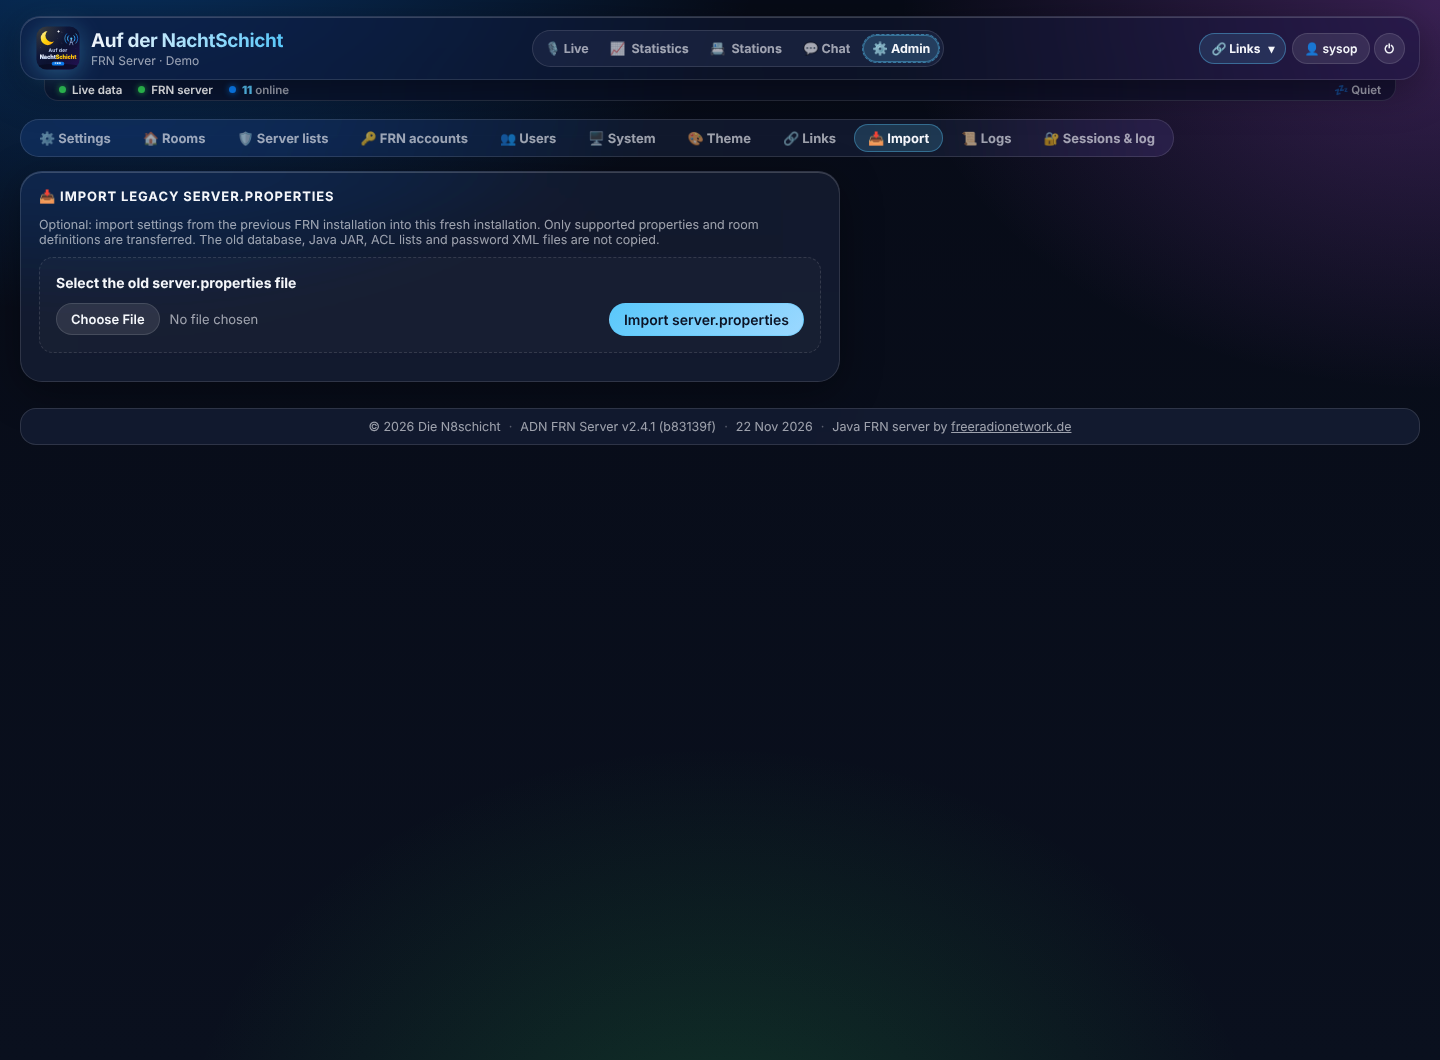
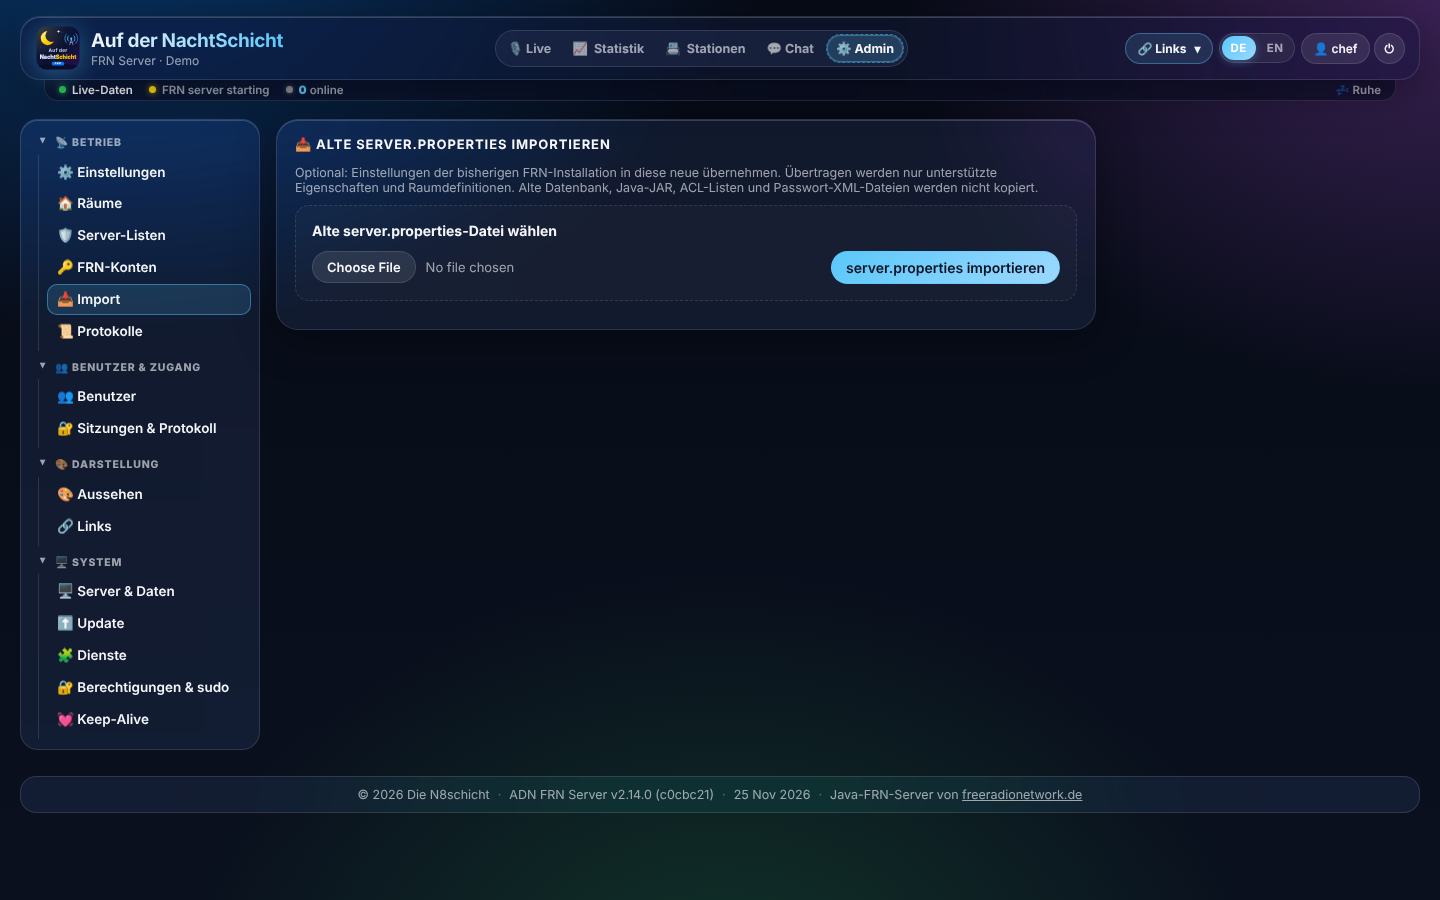
Release 2.14.0: Baum-Menü, einheitlicher Bereich System, Keep-Alive
Ausführlich in CHANGELOG.md. Doku (Admin-Portal, Updates, Betrieb & Fehlersuche, readme) und Screenshots aktualisiert.

Claude-Session: https://claude.ai/code/session_01J5RG2nh5KG4yZP2DtuvZ9u

diff --git a/frnadn/__init__.py b/frnadn/__init__.py
@@ -1,2 +1,2 @@
 """frn_adn – dashboard and admin area for the FRN server, design: Auf der NachtSchicht."""
-__version__ = "2.13.2"
+__version__ = "2.14.0"

diff --git a/docs/de/adminbereich.md b/docs/de/adminbereich.md
@@ -4,6 +4,22 @@
 
 Oben rechts **🔐 Login**, danach erscheint im Menü der Punkt **⚙ Admin**. Das Admin-Portal ersetzt das Bearbeiten von `server.properties`: alles wird in SQLite gespeichert, frn_adn schreibt die Datei daraus neu. Der Java-FRN-Server liest sie beim Start – nach einer Änderung erscheint oben **Restart now**.
 
+## Das Menü
+
+<p align="center"><img src="../images/admin-keepalive.png" alt="Admin-Portal mit Baum-Menü" width="95%"></p>
+
+Seit **2.14.0** steht links ein **Baum-Menü** – dasselbe wie im HobbyRadioPortal, HBlink4-FreeRadioID, N8 Hotspot und N8 Crosslink,
+mit denselben Gruppen in derselben Reihenfolge:
+
+| Gruppe | Einträge |
+|---|---|
+| 📡 **Betrieb** | ⚙ Einstellungen · 🏠 Räume · 🛡 Server-Listen · 🔑 FRN-Konten · 📥 Import · 📜 Protokolle |
+| 👥 **Benutzer & Zugang** | 👥 Benutzer · 🔐 Sitzungen & Protokoll |
+| 🎨 **Darstellung** | 🎨 Aussehen (Theme) · 🔗 Links |
+| 🖥 **System** | 🖥 Server & Daten · ⬆ Update · 🧩 Dienste · 🔐 Berechtigungen & sudo · 💓 Keep-Alive |
+
+Gruppen klappen per Klick auf und zu; auf dem Handy wird das Menü zu einer aufklappbaren Leiste. Kacheln einer Reihe sind gleich hoch.
+
 ## Rollen
 
 | Rolle | Darf |
@@ -109,25 +125,23 @@ Der Java-Server braucht die Passwörter im Klartext in seiner Datei; frn_adn leg
 
 Benutzer des Dashboards (nicht zu verwechseln mit FRN-Konten). Den Superadmin kann hier niemand ändern oder löschen; Admins bearbeitet nur der Superadmin.
 
-## 🖥 System
+## 🖥 Server & Daten
 
-<p align="center"><img src="../images/admin-system.png" alt="System" width="90%"></p>
+<p align="center"><img src="../images/admin-system.png" alt="Server & Daten" width="90%"></p>
 
-FRN-Server (Dienst, Port, Version, Pfade), Datenbank (Zeilen, Größe, Cache), Maschine (Last, Speicher, Platte) und Updates.
+FRN-Server (Dienst, Port, Version, Pfade), Datenbank (Zeilen, Größe, Cache), Maschine (Last, Speicher, Platte) und Backup. Update, Dienste, Berechtigungen und Keep-Alive haben seit 2.14.0 eigene Einträge unter **System**.
 
 | Knopf | Wirkung |
 |---|---|
 | 🔄 Restart FRN server | `systemctl restart frn-server` mit neu geschriebener `server.properties` – alle Stationen verbinden sich neu |
 | ♻ Restart dashboard | nur frn_adn startet neu, der FRN-Server läuft weiter |
 | 🔄 Reboot / ⏻ Shut down | nur Superadmin |
-| ↻ Jetzt prüfen | prüft Dashboard (GitHub) und Java-FRN-Server auf neue Versionen |
-| ⬆ Update jetzt installieren / Upgrade Java now | installiert das jeweilige Update – Einzelheiten: [Updates](updates.md) |
 
 ### 💾 Backup & Wiederherstellen (nur Superadmin)
 
 <p align="center"><img src="../images/admin-backup.png" alt="Backup und Wiederherstellen" width="90%"></p>
 
-Unter *System* sitzen zwei Kacheln, die nur der **Superadmin** sieht – ein Backup enthält alle Zugangsdaten.
+Unter *Server & Daten* sitzen zwei Kacheln, die nur der **Superadmin** sieht – ein Backup enthält alle Zugangsdaten.
 
 **💾 Backup** – Passwort zweimal eingeben (mindestens 10 Zeichen), **Backup erstellen**. Der Browser lädt die Datei
 `frn-backup-<host>-<datum>.frnbak` sofort herunter; die letzten **5** Backups bleiben zusätzlich in `/var/lib/frnadn/backups/`
@@ -155,18 +169,26 @@ was drin ist (Host, Datum, Version, Räume, Benutzer, FRN-Konten, Stationen, Dur
 Das Protokoll vermerkt *💾 Backup created/downloaded/deleted*, *♻ Restore started* und *♻ Backup restored*.
 
 
-## 🔄 Updates, Links und Import
+## ⬆ Update · 🧩 Dienste · 🔐 Berechtigungen & sudo · 💓 Keep-Alive
 
-<p align="center"><img src="../images/admin-updates.png" alt="Software-Updates" width="70%"></p>
+<p align="center"><img src="../images/admin-updates.png" alt="System → Update" width="95%"></p>
 
-### ⬆ Updates (System)
+Diese vier Einträge unter **System** sind gemeinsame Ansichten des N8 Kit und sehen in allen N8-Systemen gleich aus.
 
-Das Dashboard prüft 30 Sekunden nach dem Start und danach zu **jeder vollen Stunde** auf neue Commits im GitHub-Repository und auf eine neue Version des Java-FRN-Servers. Nichts wird automatisch installiert. **↻ Jetzt prüfen** prüft sofort. Für jedes Programm zeigt die Karte die installierte und die neue Version; bei GitHub außerdem die neuen Commits und einen Vergleichslink.
+- **⬆ Update**: installierte Version, Stand auf GitHub, **↻ Jetzt prüfen**, **⬆ Update jetzt installieren** (ohne Passwort, mit
+  Fortschritt und automatischem Zurücksetzen) und rechts das **📜 Update-Protokoll**. Darunter der **☕ Java-FRN-Server** von
+  freeradionetwork.de mit **Java jetzt aktualisieren** (lädt `FRN_Server.zip`, ersetzt die JAR, startet den Java-Server neu).
+  Geprüft wird 30 Sekunden nach dem Start und zu jeder vollen Stunde; installiert wird nur auf Knopfdruck. Einzelheiten: [Updates](updates.md).
+- **🧩 Dienste**: Dashboard, Java-FRN-Server und Update-Auslöser mit Zustand, Autostart und Starten · Stoppen · Neu starten.
+- **🔐 Berechtigungen & sudo**: zeigt nur, was nicht stimmt; **🛠 Korrigieren** repariert und prüft erneut.
+- **💓 Keep-Alive**: siehe [Betrieb & Fehlersuche → Keep-Alive](betrieb.md#-keep-alive).
 
-- **Upgrade Java now:** lädt `FRN_Server.zip` von freeradionetwork.de, ersetzt die JAR und startet den Java-Server neu.
-- **⬆ Update jetzt installieren** (Dashboard, Kachel im N8-Kit-Stil wie in den anderen N8schicht-Projekten): holt genau den angezeigten Stand per Fast-Forward, installiert geänderte Python-Pakete und startet zuerst den FRN-Server für einen frischen Live-Site-Status und danach das Dashboard neu. Verbundene Stationen verbinden sich automatisch wieder; die Seite lädt sich selbst. Falls der FRN-Neustart fehlschlägt, zeigt das Dashboard eine Meldung mit dem manuellen Neustart-Hinweis. Antwortet die neue Version nicht, wird automatisch auf den alten Stand zurückgesetzt (siehe [Updates](updates.md#im-admin-portal)). Bei lokalen Änderungen im Programmverzeichnis oder fehlenden Schreibrechten ist der Knopf grau und die Karte nennt den Grund. Nach der Neuinstallation einmal `sudo ./scripts/update.sh` als root ausführen; das setzt die nötigen Schreibrechte. Für das öffentliche Standard-Repository ist kein GitHub-Token nötig: [Update-Funktion einrichten](updates.md#update-funktion-einmalig-freischalten).
+<p align="center">
+  <img src="../images/admin-services.png" alt="Dienste" width="48%">
+  <img src="../images/admin-perms.png" alt="Berechtigungen & sudo" width="48%">
+</p>
 
-Alle Meldungen und Lösungen: **[Updates](updates.md)**.
+## 🔗 Links und 📥 Import
 
 ### 🔗 Links
 

diff --git a/CHANGELOG.md b/CHANGELOG.md
@@ -2,6 +2,56 @@
 
 Format: neueste Version zuerst. Die Versionsnummer steht in `frnadn/__init__.py`.
 
+## 2.14.0 – 2026-11-25
+
+### 🧭 Neu: Admin-Menü als Baum – in allen fünf N8-Systemen gleich
+- Die Reiterleiste im Adminbereich ist einem **Baum-Menü links** gewichen, wie im HobbyRadioPortal. Alle N8-Systeme
+  (HobbyRadioPortal, ADN-FRN-Server, HBlink4-FreeRadioID, N8 Hotspot, N8 Crosslink) nutzen jetzt **dieselben Gruppen in derselben
+  Reihenfolge**: 📡 Betrieb · 👥 Benutzer & Zugang · 🎨 Darstellung · 🌐 Netz & Domains · 🖥 System.
+- Gruppen lassen sich auf- und zuklappen (der Zustand wird im Browser gemerkt); auf dem Handy wird das Menü zu einer
+  aufklappbaren Leiste „☰ <aktueller Bereich>“.
+- ADN: Einstellungen, Räume, Server-Listen, FRN-Konten, Import und Protokolle unter **Betrieb**; „🖥 Server & Daten“
+  (FRN-Server, Rechner, Datenbank, Backup) unter **System**.
+
+### 🖥 Neu: Derselbe Bereich „System“ überall
+- **⬆ Update · 🧩 Dienste · 🔐 Berechtigungen & sudo · 💓 Keep-Alive** sind gemeinsame Ansichten des N8 Kit 1.1.0 und sehen in
+  allen N8-Systemen gleich aus – mit denselben Texten, Knöpfen und Adressen (`/api/admin/services`, `/api/admin/perms`,
+  `/api/admin/perms/fix`, `/api/admin/keepalive`, `/api/admin/update-log`).
+- **Update:** Stand, GitHub, „Jetzt prüfen“, „Update jetzt installieren“ und daneben das **Update-Protokoll** mit dem Ergebnis des
+  letzten Updates (erfolgreich / zurückgenommen).
+  Unter dem Update steht wie bisher der **☕ Java-FRN-Server** von freeradionetwork.de mit eigenem Aktualisieren-Knopf.
+- **Dienste:** Zustand, Autostart-Schalter und Starten · Stoppen · Neu starten – nur, was die sudo-Regeln freigeben.
+- **Berechtigungen & sudo:** zeigt zuerst nur, was nicht stimmt; die bestandenen Prüfungen klappen auf. **🛠 Korrigieren**
+  repariert und prüft erneut.
+- **Keep-Alive:** Zustand je Dienst, Internet, Heartbeat, Einstellungen und Protokoll.
+
+### 🔓 Update ohne Passwort
+- „Update jetzt installieren“ braucht kein Passwort (war beim ADN schon so) – eine Admin-Sitzung genügt.
+
+### 📐 Symmetrische Blöcke
+- Kacheln einer Reihe sind im Adminbereich jetzt **gleich hoch**, die Knöpfe stehen unten bündig; eine einzelne letzte Kachel
+  nimmt die volle Breite ein.
+
+### 🧰 Kleinigkeiten
+- N8 Kit: Schriften im Menü und auf den Knöpfen werden jetzt richtig gesetzt (die `font`-Kurzform mit `inherit` war ungültig und
+  wurde vom Browser verworfen).
+
+### 💓 Neu: Keep-Alive – hohe Verfügbarkeit ohne Zutun
+- **Dienste-Wächter:** Ein systemd-Timer (`frnadn-keepalive.timer`) prüft **jede Minute als root**, ob jeder Dienst wirklich arbeitet –
+  nicht nur „läuft“, sondern das Dashboard antwortet, der Java-FRN-Server läuft **und** nimmt Stationen auf seinem FRN-Port an. Bleibt ein Dienst 3 Minuten krank (oder steht er auf `failed`), wird er neu gestartet,
+  **höchstens 4× je Stunde** – danach meldet der Keep-Alive „aufgegeben“ statt endlos neu zu starten.
+- **Netz-Wiederverbindung:** Fällt das Internet aus (1.1.1.1, 9.9.9.9 und github.com auf Port 443 nicht erreichbar), startet der
+  Keep-Alive **nicht** sinnlos neu. Ist das Netz nach mindestens 60 s wieder da, startet er die Netzdienste einmal neu, damit
+  alle Verbindungen sofort wieder stehen (abschaltbar).
+- **Externer Ping (Heartbeat):** Optional eine Adresse für Uptime Kuma („Push“) oder Healthchecks.io – jede Minute ein Ping,
+  wenn alles gesund ist, sonst die Fehler-Adresse. So merkst du auch, wenn der ganze Server weg ist.
+- **Von Hand gestoppt bleibt gestoppt:** Wer einen Dienst im Webinterface stoppt, wird vom Keep-Alive nicht übergangen; erst
+  „Starten“ gibt ihn wieder frei. Für Wartungen gibt es **⏸ 1 h pausieren**.
+- Neue lokale Adresse `/api/n8/health` (nur von 127.0.0.1, nie über einen Proxy) liefert dem Keep-Alive den echten Zustand.
+- Eingerichtet von `install`, `update` und `fix-perms`; `check-perms` prüft den Timer mit.
+
+> Auf bestehenden Servern genügt „Update jetzt“ im Webinterface; der Keep-Alive richtet sich dabei selbst ein.
+
 ## 2.13.2 – 2026-11-25
 
 ### 🐛 Fix: „sudo verweigert“ und „Installiert vX · ?“ nach dem Umstellen auf das N8 Admin-Kit

diff --git a/readme.md b/readme.md
@@ -93,8 +93,8 @@ Der Installer ist für eine **saubere Neuinstallation** gedacht und bricht ab, w
 <td width="50%"><img src="docs/images/admin-links-siteicons.png" alt="Link-Editor mit Site-Icons"><br><b>Link-Editor</b> mit Site-Icon-Vorschau, Fallback-Emoji, Sortierung und SQLite-Cache.</td>
 </tr>
 <tr>
-<td><img src="docs/images/admin-updates.png" alt="Software-Updates"><br><b>⬆ Software updates</b>: installierte und neue Version, neue Commits, getrennte Upgrade-Knöpfe.</td>
-<td><img src="docs/images/admin-system.png" alt="System"><br><b>🖥 System</b>: FRN-Server, Datenbank, Maschine und Updates.</td>
+<td><img src="docs/images/admin-updates.png" alt="Update"><br><b>⬆ Update</b>: Baum-Menü wie in allen N8-Systemen, Dashboard und Java-FRN-Server, Update-Protokoll.</td>
+<td><img src="docs/images/admin-keepalive.png" alt="Keep-Alive"><br><b>💓 Keep-Alive</b>: prüft jede Minute Dashboard und FRN-Server, startet neu, Internet-Ausfall, Heartbeat.</td>
 </tr>
 <tr>
 <td><img src="docs/images/rooms-avatars.png" alt="Räume mit Client-Avataren"><br><b>📡 Räume</b>: Avatar = Client-Software, 👑/🛡 vor dem Rufzeichen.</td>
@@ -128,16 +128,16 @@ Der Installer ist für eine **saubere Neuinstallation** gedacht und bricht ab, w
 | 📦 [Installation](docs/de/installation.md) | Voraussetzungen, geführte Installation, HTTPS, Router und Firewall, Aktualisieren, Deinstallieren |
 | 🎙 [Dashboard](docs/de/dashboard.md) | Kopfzeile und Menü, Link-Menü, Tabs Live / Statistics / Stations / Chat, Login |
 | 🔐 [Sicherheit & N8 Kit](docs/de/sicherheit.md) | Sicherheits-Header, API-Doku aus, Reverse-Proxy (Caddy/nginx), Sprache DE/EN, Updates mit Prüfung und Rollback |
-| ⚙ [Admin-Portal](docs/de/adminbereich.md) | Rollen, Settings, HTTPS, Rooms, ACL-Listen, FRN-Konten, Benutzer, Portal-Token, System, Theme, Updates, Links, Import, Logs |
+| ⚙ [Admin-Portal](docs/de/adminbereich.md) | Baum-Menü, Rollen, Settings, HTTPS, Rooms, ACL-Listen, FRN-Konten, Benutzer, Portal-Token, System, Theme, Updates, Links, Import, Logs |
 | ⬆ [Updates](docs/de/updates.md) | Dashboard und Java-Server aktualisieren, Fehlermeldungen und Lösungen |
 | 🧭 [Anleitungen](docs/de/anleitungen.md) | Schritt für Schritt: Link-Menü einrichten, Dashboard aktualisieren, Logo und Farbe, Umzug, weitere Admins |
 | 🧾 [Konfiguration](docs/de/konfiguration.md) | Was in den Dateien steht und was in SQLite, alle Einstellungen im Überblick, Räume |
-| 🩺 [Betrieb & Fehlersuche](docs/de/betrieb.md) | **Bei Problemen zuerst das [öffentliche FRN-Fehlerprotokoll](http://log.freeradionetwork.de:60080/error_log.php)** (im Adminbereich unter Logs eingebaut), Dienste, SystemManager-Fehler, typische Probleme, Backup & Wiederherstellen (auch im HobbyRadioPortal), Testen ohne Funk |
+| 🩺 [Betrieb & Fehlersuche](docs/de/betrieb.md) | **Bei Problemen zuerst das [öffentliche FRN-Fehlerprotokoll](http://log.freeradionetwork.de:60080/error_log.php)** (im Adminbereich unter Logs eingebaut), Dienste, Keep-Alive, SystemManager-Fehler, typische Probleme, Backup & Wiederherstellen (auch im HobbyRadioPortal), Testen ohne Funk |
 | 🏷 [Änderungen](CHANGELOG.md) | Was sich in welcher Version geändert hat |
 
 ## Aktualisieren
 
-Am einfachsten im Admin-Portal: der Hinweis **Update verfügbar → Jetzt aktualisieren** unter der Statusleiste, oder **⚙ Admin → 🖥 System → ⬆ Updates → ⬆ Update jetzt installieren**. Antwortet das Dashboard danach nicht, wird automatisch auf den alten Stand zurückgesetzt. Oder auf der Konsole:
+Am einfachsten im Admin-Portal: der Hinweis **Update verfügbar → Jetzt aktualisieren** unter der Statusleiste, oder **⚙ Admin → 🖥 System → ⬆ Update → ⬆ Update jetzt installieren** (ohne Passwort). Antwortet das Dashboard danach nicht, wird automatisch auf den alten Stand zurückgesetzt. Oder auf der Konsole:
 
 ```bash
 cd /opt/adn-frn-server

diff --git a/docs/de/betrieb.md b/docs/de/betrieb.md
@@ -5,10 +5,13 @@
 ## Dienste
 
 **Admin → System → 🧩 Dienste** zeigt `frnadn`, `frn-server` und den Update-Auslöser schlank mit Status, **Autostart**-Schalter
-und **▶ Starten / 🔄 Neu starten / ⏹ Stoppen**. Daneben **🔐 Berechtigungen & sudo**: alle Prüfungen von `scripts/n8-admin.sh`, mit
+und **▶ Starten / ↻ Neu starten / ■ Stoppen**. Der eigene Eintrag **🔐 Berechtigungen & sudo** zeigt alle Prüfungen von `scripts/n8-admin.sh`, mit
 **🛠 Korrigieren** (prüfen → korrigieren → erneut prüfen). Konsole: `sudo /opt/adn-frn-server/scripts/n8-admin.sh check-perms` bzw. `fix-perms`.
 
-<p align="center"><img src="../images/admin-services.png" alt="Dienste und Berechtigungen" width="90%"></p>
+<p align="center">
+  <img src="../images/admin-services.png" alt="Dienste" width="48%">
+  <img src="../images/admin-perms.png" alt="Berechtigungen & sudo" width="48%">
+</p>
 
 ```bash
 systemctl status frn-server frnadn     # laufen sie?
@@ -20,6 +23,32 @@ tail -f /var/lib/frnadn/frn/logs/server.log
 Beide Dienste laufen als Benutzer `frnadn` ohne Root-Rechte. frn_adn darf per sudoers-Regel (`/etc/sudoers.d/frnadn`) genau `frn-server` starten, stoppen, neu starten sowie *Reboot* und *Shut down* auslösen – sonst nichts.
 
 `frn-server` startet nach einem Absturz nach **60 Sekunden** neu. Der Java-Server beendet sich bei schweren SystemManager-Fehlern selbst; die Wartezeit verhindert, dass er den SystemManager mit Anmeldeversuchen überflutet.
+
+
+## 💓 Keep-Alive
+
+<p align="center"><img src="../images/admin-keepalive.png" alt="System → Keep-Alive" width="95%"></p>
+
+Seit **2.14.0** wacht ein Keep-Alive über das Dashboard und den Java-FRN-Server. `frnadn-keepalive.timer` startet **jede Minute
+als root** `scripts/n8-admin.sh keepalive`:
+
+| Was | Wie |
+|---|---|
+| **Dashboard** | antwortet es auf `/api/info`? |
+| **Java-FRN-Server** | läuft er (`/api/n8/health`, nur lokal erreichbar) **und** nimmt er Verbindungen auf seinem FRN-Port an? |
+| **Neustart** | nach **3 Minuten** krank (sofort bei `failed`), **höchstens 4× je Stunde** – danach „aufgegeben“ im Protokoll |
+| **Internet-Ausfall** | 1.1.1.1, 9.9.9.9 und github.com (Port 443) nicht erreichbar → keine sinnlosen Neustarts; ist das Netz nach mindestens 60 s wieder da, wird der FRN-Server einmal neu gestartet, damit er sich sofort wieder am SystemManager meldet |
+| **Heartbeat** | optional jede Minute ein Ping an Uptime Kuma („Push“) oder Healthchecks.io, bei Fehlern an die Fehler-Adresse |
+| **Wartung** | **⏸ 1 h pausieren**; ein unter *Dienste* gestoppter Dienst bleibt gestoppt, bis du ihn dort startest |
+
+Dateien im Datenordner (`/var/lib/frnadn`): `keepalive.conf`, `keepalive.json`, `keepalive.log` (höchstens 400 Zeilen).
+Eingerichtet wird der Timer von Installer, Update und `fix-perms`; `check-perms` prüft ihn mit.
+
+```bash
+systemctl status frnadn-keepalive.timer
+sudo /opt/adn-frn-server/scripts/n8-admin.sh keepalive    # eine Runde von Hand
+tail -f /var/lib/frnadn/keepalive.log
+```
 
 ## 📋 Bei Problemen immer zuerst: das öffentliche FRN-Fehlerprotokoll
 

diff --git a/docs/de/updates.md b/docs/de/updates.md
@@ -11,11 +11,11 @@ Zwei Programme werden aktualisiert, jedes mit eigenem Knopf. **Nichts wird autom
 
 <p align="center"><img src="../images/admin-updates.png" alt="Software-Updates im Admin-Portal" width="70%"></p>
 
-Zu finden unter **⚙ Admin → 🖥 System → ⬆ Updates**. Hinweis, Kachel und Fortschritt kommen aus dem **N8 Kit** und sehen in adn-frn-server, HBlink4-FreeRadioID, N8-HotSpot und N8 Crosslink gleich aus.
+Zu finden unter **⚙ Admin → 🖥 System → ⬆ Update** (seit 2.14.0 ein eigener Eintrag im Baum-Menü; „Update jetzt“ braucht kein Passwort). Hinweis, Kachel und Fortschritt kommen aus dem **N8 Kit** und sehen in adn-frn-server, HBlink4-FreeRadioID, N8-HotSpot und N8 Crosslink gleich aus.
 
 <p align="center"><img src="../images/update-banner.png" alt="Update-Hinweis unter der Statusleiste" width="90%"></p>
 
-Gibt es ein neues Dashboard, sehen **angemeldete Admins** direkt unter der Statusleiste den Hinweis *Update verfügbar: v2.6.0 · … → v2.7.0 · …* mit **Was ist neu?** (Commit-Liste), **Jetzt aktualisieren**, **Details** (öffnet Admin → System) und **Später** (blendet den Hinweis für diese Version einen Tag aus). Besucher ohne Anmeldung sehen ihn nie.
+Gibt es ein neues Dashboard, sehen **angemeldete Admins** direkt unter der Statusleiste den Hinweis *Update verfügbar: v2.6.0 · … → v2.7.0 · …* mit **Was ist neu?** (Commit-Liste), **Jetzt aktualisieren**, **Details** (öffnet Admin → System → Update) und **Später** (blendet den Hinweis für diese Version einen Tag aus). Besucher ohne Anmeldung sehen ihn nie.
 
 ## Wie das Update läuft (N8 Admin)
 
@@ -48,9 +48,9 @@ Das richtet Besitzer und Rechte, die sudo-Freigaben und den Update-Auslöser ein
 
 Die Abfrage an GitHub braucht keinen Zugang (zwei Anfragen pro Prüfung). Das Ergebnis zeigt je Programm: installierte Version, neue Version, bei GitHub zusätzlich die Zahl der neuen Commits samt Liste und einen Vergleichslink.
 
-<p align="center"><img src="../images/admin-updates.png" alt="Software updates unter Admin → System" width="70%"></p>
+<p align="center"><img src="../images/admin-updates.png" alt="System → Update" width="70%"></p>
 
-Beim Öffnen von **Admin → System** zeigt die Karte das letzte Ergebnis (höchstens 10 Minuten alt), damit GitHub nicht bei jedem
+Beim Öffnen von **Admin → System → Update** zeigt die Karte das letzte Ergebnis (höchstens 10 Minuten alt), damit GitHub nicht bei jedem
 Klick gefragt wird – ohne Anmeldung erlaubt GitHub 60 Abfragen pro Stunde. **↻ Jetzt prüfen** fragt immer sofort neu, nach einem Upgrade
 wird automatisch neu geprüft. Die Uhrzeit der letzten Prüfung steht unten in der Karte.
 
